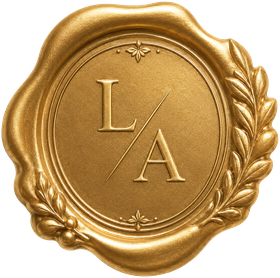
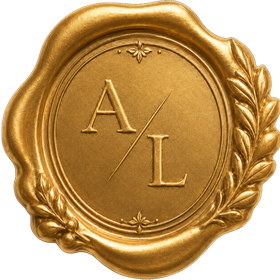
Updated wedding website content and media

diff --git a/src/index.css b/src/index.css
@@ -386,12 +386,18 @@ body.menu-open .mobile-menu { transform: translateY(0); }
   position: absolute; inset: 0;
   width: 100%; height: 100%;
   object-fit: cover;
+  object-position: center 45%;
   transform: scale(1.02);
 }
 .hero-media::after {
   content: '';
   position: absolute; inset: 0;
   background: linear-gradient(180deg, rgba(20,17,12,0.42) 0%, rgba(20,17,12,0.30) 38%, rgba(20,17,12,0.55) 100%);
+}
+.hero-media video::-webkit-media-controls,
+.hero-media video::-webkit-media-controls-enclosure,
+.hero-media video::-webkit-media-controls-panel {
+  display: none !important;
 }
 .hero-content {
   position: relative;
@@ -429,7 +435,7 @@ body.menu-open .mobile-menu { transform: translateY(0); }
 .hero-title {
   font-family: 'Cormorant Garamond', serif;
   font-weight: 500;
-  font-size: clamp(30px, 6vw, 80px);
+  font-size: clamp(50px, 7vw, 80px);
   line-height: 1;
   letter-spacing:1px;
   color: var(--ivory);
@@ -617,7 +623,7 @@ body.menu-open .mobile-menu { transform: translateY(0); }
 .intro-invite {
   position: relative;
   overflow: hidden;
-  padding: clamp(56px, 6vw, 96px) 0;
+  padding: clamp(56px, 7vw, 96px) 0;
   background-image: url('/assets/intro-bg.jpg');
   background-size: cover;
   background-position: center;
@@ -629,7 +635,15 @@ body.menu-open .mobile-menu { transform: translateY(0); }
   max-width: 900px;
   margin: 0 auto;
 }
-
+.invite-card-note {
+  margin-top: 10px;
+  font-family: 'Inter', sans-serif;
+  font-size: 11px;
+  font-style: italic;
+  line-height: 1.6;
+  letter-spacing: 0.04em;
+  color: var(--ink-faint);
+}
 .invite-reveal {
   opacity: 0;
   transform: translateY(28px) scale(0.97);
@@ -673,7 +687,7 @@ body.menu-open .mobile-menu { transform: translateY(0); }
   max-width: 480px;
   margin: 0 auto;
   text-align: center;
-  padding: clamp(24px, 3vw, 30px) clamp(24px, 3.5vw, 36px) clamp(18px, 2.5vw, 24px);
+  padding: clamp(24px, 5vw, 30px) clamp(24px, 3.5vw, 36px) clamp(18px, 2.5vw, 24px);
   background: #FDFAF4;
   border: 1px solid var(--champagne);
   border-radius: 20px;
@@ -1490,5 +1504,36 @@ body.menu-open .mobile-menu { transform: translateY(0); }
   .wax-seal {
     width: 56px;
     top: -26px;
+  }
+  .map-placeholder {
+    aspect-ratio: unset;
+    min-height: unset;
+    height: auto;
+    overflow: visible;
+  }
+  .map-placeholder .map-content {
+    padding: 28px 20px;
+    gap: 10px;
+  }
+  .map-content .addr {
+    font-size: 15px;
+  }
+  .map-pin {
+    width: 28px;
+    height: 28px;
+  }
+}
+
+
+@media (max-width: 768px) {
+  .details-grid {
+    grid-template-columns: 1fr;
+  }
+  .map-placeholder {
+    aspect-ratio: 16/9;
+    min-height: 200px;
+  }
+  .map-content {
+    padding: 20px;
   }
 }

diff --git a/src/components/WelcomeVideo.jsx b/src/components/WelcomeVideo.jsx
@@ -8,7 +8,6 @@ export default function WelcomeVideo() {
   const gridRef = useReveal('is-visible');
   const videoRef = useRef(null);
   const [isPlaying, setIsPlaying] = useState(false);
-  const [isLooping, setIsLooping] = useState(false); // briefly true right at the loop seam
 
   const handlePlay = () => {
     videoRef.current?.play();
@@ -24,42 +23,30 @@ export default function WelcomeVideo() {
     });
   };
 
-  // Fade the poster in for a beat right as the loop restarts, then fade it
-  // back out — this covers the browser's loop-restart hiccup with a
-  // deliberate, smooth transition instead of letting it show through raw.
-  const handleTimeUpdate = () => {
-    const v = videoRef.current;
-    if (!v || !v.duration) return;
-    if (v.duration - v.currentTime < 0.3) {
-      setIsLooping(true);
-      setTimeout(() => setIsLooping(false), 500);
-    }
-  };
-
   return (
     <section className="bg-ivory" id="video">
       <div className="container">
         <div className="section-head reveal" ref={headRef}>
           <span className="eyebrow">A Glimpse Of Us</span>
-          <h2 className="display-2">Here's a glimpse of us filled with love.</h2>
+          <h2 className="display-2">Here&rsquo;s a glimpse of us filled with love.</h2>
         </div>
 
         <div className="video-section-grid reveal" ref={gridRef}>
           <div className={`video-feature ${isPlaying ? 'is-playing' : ''}`}>
             <video
               ref={videoRef}
-              src="/assets/welcome-video.mp4"
-              poster="/assets/welcome-poster-joyful.jpg"
+              poster="/assets/gallery-d.jpg"
               controls={isPlaying}
               playsInline
               preload="auto"
               loop
               onPause={handlePause}
-              onTimeUpdate={handleTimeUpdate}
-            />
+            >
+              <source src="/assets/hero-video.mp4" type="video/mp4" />
+            </video>
             <img
-              className={`video-poster-overlay ${!isPlaying || isLooping ? 'is-visible' : ''}`}
-              src="/assets/welcome-poster-joyful.jpg"
+              className={`video-poster-overlay ${!isPlaying ? 'is-visible' : ''}`}
+              src="/assets/gallery-d.jpg"
               alt=""
             />
             {!isPlaying && (
@@ -72,11 +59,11 @@ export default function WelcomeVideo() {
           <div className="video-caption">
             <Monogram size={40} color="var(--champagne-deep)" style={{ marginBottom: 20 }} />
             <p className="lede">
-              We can't wait to celebrate with the people who've shaped our story. Press play for a
+              We can&rsquo;t wait to celebrate with the people who&rsquo;ve shaped our story. Press play for a
               little hello before the big day.
             </p>
             <p className="signature">
-              Live &amp; Abass
+              Abass &amp; Live
               <small>With Love</small>
             </p>
           </div>

diff --git a/src/data/content.js b/src/data/content.js
@@ -4,7 +4,7 @@
 
 // RSVP: paste your WithJoy (or other) RSVP link here once it's ready.
 // Every "RSVP Now" button on the site reads from this single constant.
-export const RSVP_LINK = '';
+export const RSVP_LINK = 'https://withjoy.com/abass-and-live/rsvp?utm_medium=web&utm_source=joy&utm_campaign=share_website_dialog';
 
 // Wedding date/time used by the countdown and the "Add to Calendar" button.
 // Reception begins 6:30 PM, Friday 20 November 2026, Sydney (AEDT, UTC+11).
@@ -12,8 +12,8 @@ export const WEDDING_DATETIME_ISO = '2026-11-20T18:30:00+11:00';
 export const WEDDING_END_DATETIME_ISO = '2026-11-20T23:30:00+11:00';
 
 export const COUPLE = {
-  partnerOne: 'Live Mayele',
-  partnerTwo: 'Abass Lateef',
+  partnerOne: 'Abass Lateef',
+  partnerTwo: 'Live Mayele',
 };
 
 export const VENUE = {
@@ -30,9 +30,9 @@ export const HOTEL = {
 };
 
 export const CONTACT = {
-  email: '[email redacted]',
-  phone: '[phone redacted]',
-  phoneHref: '[phone redacted]',
+  email: '[email redacted]',
+  phone: '[phone redacted]',
+  phoneHref: '[phone redacted]',
 };
 
 export const timeline = [
@@ -62,14 +62,14 @@ export const timeline = [
     title: 'Our Nikkah',
     text: 'Surrounded by loved ones, we were blessed to become husband and wife through our Nikkah — the beginning of our life together as one.',
     label: 'Our Nikkah',
-    image: '/assets/gallery-i.jpg',
+    image: '/assets/nikkah.jpg',
   },
   {
-    date: '3 December 2025',
-    title: 'Our Traditional Wedding',
-    text: 'We celebrated our beautiful traditional wedding, honouring our families, our cultures, and the journey that brought us together.',
-    label: 'Our Traditional Wedding',
-    image: '/assets/gallery-f.jpg',
+  date: '3 December 2025',
+  title: 'Celebrating Our Nikkah',
+  text: 'Surrounded by family, flowers, and joy, we celebrated becoming husband and wife — honouring our loved ones, our cultures, and the beautiful journey that brought us together.',
+  label: 'Nikkah Celebration',
+  image: '/assets/gallery-f.jpg',
   },
   {
     date: '20 November 2026',

diff --git a/src/components/Hero.jsx b/src/components/Hero.jsx
@@ -1,14 +1,24 @@
+import { useRef } from 'react';
 import Monogram from './Monogram';
 import { COUPLE, RSVP_LINK } from '../data/content';
 
 export default function Hero() {
   const rsvpHref = RSVP_LINK || '#rsvp';
+  const videoRef = useRef(null);
+
+  function handleTimeUpdate() {
+    const video = videoRef.current;
+    if (!video) return;
+    if (video.duration && video.currentTime >= video.duration - 1.5) {
+      video.currentTime = 0;
+    }
+  }
 
   return (
     <header className="hero" id="home">
       <div className="hero-media">
-        <video autoPlay muted loop playsInline poster="/assets/hero-poster.jpg">
-          <source src="/assets/hero-video.mp4" type="video/mp4" />
+        <video ref={videoRef} autoPlay muted playsInline webkit-playsinline="true" poster="/assets/welcome-poster-joyful.jpg" onTimeUpdate={handleTimeUpdate}>
+            <source src="/assets/welcome-video.mp4" type="video/mp4" />
         </video>
       </div>
       <div className="hero-content">
@@ -29,9 +39,7 @@ export default function Hero() {
           >
             RSVP Now
           </a>
-          <a href="#details" className="btn btn-outline">
-            View Details
-          </a>
+          <a href="#details" className="btn btn-outline">View Details</a>
         </div>
       </div>
       <div className="hero-scroll">

diff --git a/src/components/Contact.jsx b/src/components/Contact.jsx
@@ -35,7 +35,7 @@ export default function Contact() {
               <IconHosts />
             </span>
             <h4>Wedding Hosted By</h4>
-            <p>Live &amp; Abass</p>
+            <p>Abass &amp; Live</p>
           </div>
         </div>
       </div>

diff --git a/src/components/Footer.jsx b/src/components/Footer.jsx
@@ -33,7 +33,7 @@ export default function Footer() {
         </div>
         <Flourish />
         <p className="footer-meta">
-          Live Mayele &amp; Abass Lateef &nbsp;&bull;&nbsp; &copy; 2026. All rights reserved.
+          Abass Lateef &amp; Live Mayele &nbsp;&bull;&nbsp; &copy; 2026. All rights reserved.
         </p>
       </div>
     </footer>

diff --git a/src/components/Intro.jsx b/src/components/Intro.jsx
@@ -78,7 +78,7 @@ export default function Intro() {
             <BowTie />
 
             <p className="invite-card-dress">Black Tie &nbsp;&bull;&nbsp; Dress To Impress</p>
-
+            <p className="invite-card-note">This is an adults-only celebration. Children of the immediate family are warmly welcome.</p>
             <a href="#details" className="invite-card-btn">
               View Wedding Details <span aria-hidden="true">&rarr;</span>
             </a>

diff --git a/src/components/Monogram.jsx b/src/components/Monogram.jsx
@@ -13,7 +13,7 @@ export default function Monogram({ size = 64, color, style = {} }) {
           fill="currentColor"
           textAnchor="middle"
         >
-          L&amp;A
+          A&amp;L
         </text>
         <line x1="38" y1="84" x2="82" y2="84" stroke="currentColor" strokeWidth="1.2" />
       </svg>